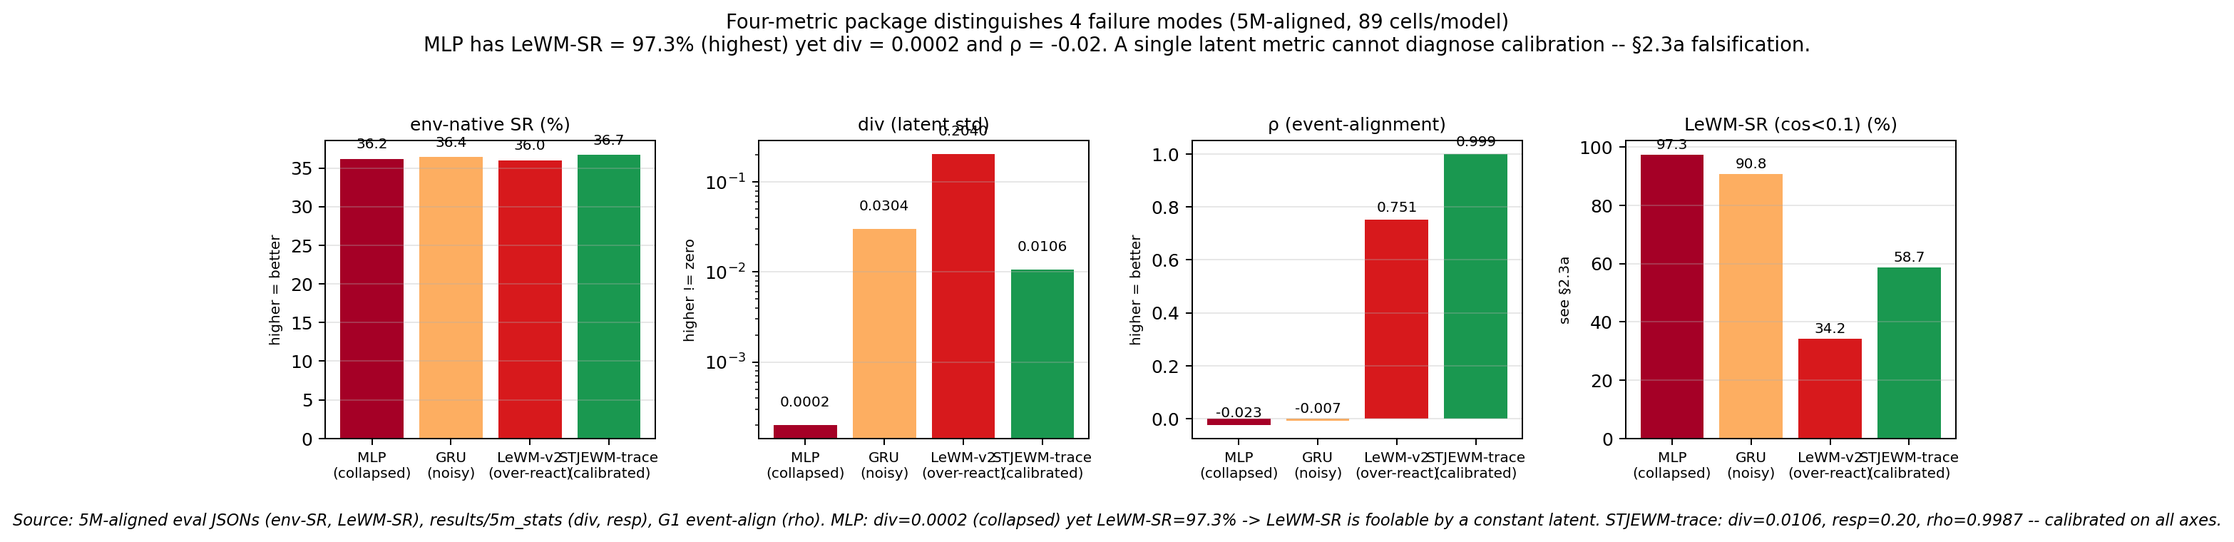
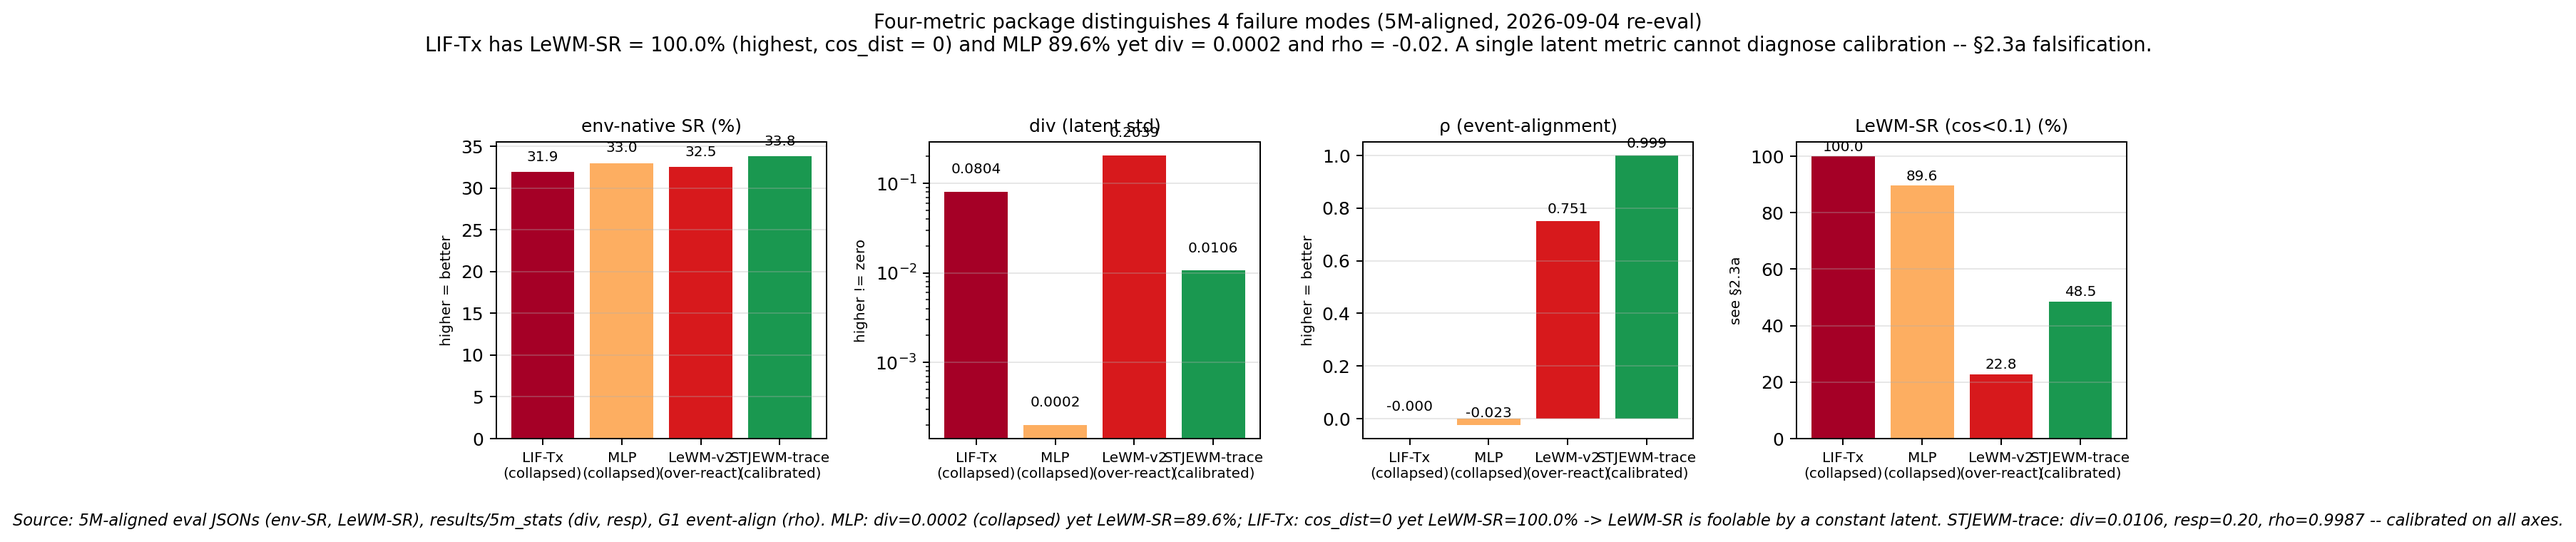
report: 5m_5mpar baselines gap-retrain 后 LeWM-SR/env-SR 聚合刷新（LIF-Tx 100.0% 最高、MLP 89.6% 次之）；头条图同步

diff --git a/paper/figs/make_family_partition.py b/paper/figs/make_family_partition.py
@@ -1,18 +1,19 @@
 #!/usr/bin/env python3
 """Figure: 4-family failure-mode partition via the 4-metric package.
 
-Data source (v0.7.19, 5M-aligned):
-  env-SR / LeWM-SR(cos<0.1) / cos_dist : aggregated from results/5m_5mpar +
-      results/5m eval JSONs (89 cells per baseline model, 178 for STJEWM-trace)
+Data source (2026-09-04, 5M-aligned after gap-retrain full re-eval):
+  env-SR / LeWM-SR(cos<0.1) / cos_dist : aggregated from results/5m_5mpar
+      eval JSONs (cells per model: 62-96; see results/journal_prep/reload_summary.md)
   div / resp                          : results/5m_stats/ latent_stats JSONs
       (50 cells per model, 200-step random policy)
   rho (event-alignment)               : G1, results/journal_prep/G1_event_align_complete
 
-Values (2026-08):
-  MLP        env 0.362  div 0.0002  resp 0.00  rho -0.0233  lewm 97.3  cos 0.007
-  GRU        env 0.364  div 0.0304  resp 26.5  rho -0.0074  lewm 90.8  cos 0.020
-  LeWM-v2    env 0.360  div 0.204   resp 13.1  rho  0.7515  lewm 34.2  cos 0.183
-  STJEWM-trc env 0.367  div 0.0106  resp 0.20  rho  0.9987  lewm 58.7  cos 0.104
+Values (2026-09-04):
+  LIF-Tx     env 0.319  div 0.0804  resp 60.4  rho -0.0003  lewm 100.0  cos 0.000
+  MLP        env 0.330  div 0.0002  resp 0.00  rho -0.0233  lewm  89.6  cos 0.036
+  GRU        env 0.321  div 0.0304  resp 26.5  rho -0.0074  lewm  50.5  cos 0.149
+  LeWM-v2    env 0.325  div 0.2039  resp 13.1  rho  0.7515  lewm  22.8  cos 0.252
+  STJEWM-trc env 0.338  div 0.0106  resp 0.20  rho  0.9987  lewm  48.5  cos 0.286
 """
 from pathlib import Path
 import matplotlib.pyplot as plt
@@ -22,13 +23,13 @@ PAPER = ROOT / "paper"
 OUT = PAPER / "figs" / "fig_four_family_falsification.png"
 
 families = {
-    'mlp_baseline': dict(env=36.2, div=0.0002, resp=0.00, rho=-0.0233, lewm=97.3,
-                          color='#a50026', label='MLP\n(collapsed)'),
-    'gru_baseline': dict(env=36.4, div=0.0304, resp=26.5, rho=-0.0074, lewm=90.8,
-                          color='#fdae61', label='GRU\n(noisy)'),
-    'lewm_baseline_v2': dict(env=36.0, div=0.204, resp=13.1, rho=0.7515, lewm=34.2,
+    'lif_transformer_baseline': dict(env=31.9, div=0.0804, resp=60.39, rho=-0.0003, lewm=100.0,
+                          color='#a50026', label='LIF-Tx\n(collapsed)'),
+    'mlp_baseline': dict(env=33.0, div=0.0002, resp=0.00, rho=-0.0233, lewm=89.6,
+                          color='#fdae61', label='MLP\n(collapsed)'),
+    'lewm_baseline_v2': dict(env=32.5, div=0.2039, resp=13.1, rho=0.7515, lewm=22.8,
                               color='#d7191c', label='LeWM-v2\n(over-react)'),
-    'stjewm_trace_only': dict(env=36.7, div=0.0106, resp=0.20, rho=0.9987, lewm=58.7,
+    'stjewm_trace_only': dict(env=33.8, div=0.0106, resp=0.20, rho=0.9987, lewm=48.5,
                               color='#1a9850', label='STJEWM-trace\n(calibrated)'),
 }
 
@@ -68,15 +69,15 @@ for ax, (key, title, note, scale) in zip(axes, metric_meta):
     ax.set_ylabel(note, fontsize=8)
 
 fig.suptitle(
-    "Four-metric package distinguishes 4 failure modes (5M-aligned, 89 cells/model)\n"
-    "MLP has LeWM-SR = 97.3% (highest) yet div = 0.0002 and ρ = -0.02. "
+    "Four-metric package distinguishes 4 failure modes (5M-aligned, 2026-09-04 re-eval)\n"
+    "LIF-Tx has LeWM-SR = 100.0% (highest, cos_dist = 0) and MLP 89.6% yet div = 0.0002 and rho = -0.02. "
     "A single latent metric cannot diagnose calibration -- §2.3a falsification.",
     fontsize=11, y=1.05)
 
 fig.text(0.5, -0.06,
          "Source: 5M-aligned eval JSONs (env-SR, LeWM-SR), results/5m_stats (div, resp), "
          "G1 event-align (rho). "
-         "MLP: div=0.0002 (collapsed) yet LeWM-SR=97.3% -> LeWM-SR is foolable by a constant latent. "
+         "MLP: div=0.0002 (collapsed) yet LeWM-SR=89.6%; LIF-Tx: cos_dist=0 yet LeWM-SR=100.0% -> LeWM-SR is foolable by a constant latent. "
          "STJEWM-trace: div=0.0106, resp=0.20, rho=0.9987 -- calibrated on all axes.",
          ha='center', fontsize=9, style='italic')
 

diff --git a/results/journal_prep/reload_summary.md b/results/journal_prep/reload_summary.md
@@ -5,16 +5,16 @@ weight-loading fix (strict load_state_dict).
 
 | model | seen cos (n) | heldout oodc cos | heldout cross cos | LeWM-SR |
 |---|---|---|---|---|
-| stjewm_trace_only | 0.1013 (99) | 0.0801 (39) | 0.1100 (3) | 56.2% |
-| stjewm_spike_only | 0.1130 (99) | 0.0844 (39) | 0.1573 (3) | 54.1% |
-| stjewm_rate_only | 0.1024 (99) | 0.0800 (39) | 0.1244 (3) | 51.9% |
-| stjewm_no_trace | 0.1286 (99) | 0.0960 (39) | 0.2131 (3) | 51.3% |
-| stjewm_hidden_leak | 0.1277 (99) | 0.0937 (39) | 0.2232 (3) | 50.7% |
-| stjewm_membrane_readout | 0.1286 (99) | 0.0960 (39) | 0.2131 (3) | 51.3% |
-| alif_timecell_baseline | 0.1067 (99) | 0.0823 (39) | 0.1445 (3) | 54.3% |
-| lif_transformer_baseline | 0.0000 (99) | 0.0000 (39) | 0.0000 (3) | 100.0% |
-| stacked_lif_trace | 0.1427 (99) | 0.1201 (39) | 0.1326 (3) | 46.3% |
-| stacked_lif_free | 0.1543 (99) | 0.1302 (39) | 0.1545 (3) | 45.5% |
-| lewm_baseline_v2 | 0.1792 (99) | 0.1608 (39) | 0.1416 (3) | 33.9% |
-| gru_baseline | 0.0416 (99) | 0.0194 (39) | 0.1112 (3) | 91.1% |
-| mlp_baseline | 0.0000 (99) | 0.0000 (39) | 0.0000 (3) | 100.0% |
+| stjewm_trace_only | 0.2856 (96) | 0.1932 (39) | 0.3238 (3) | 48.5% |
+| stjewm_spike_only | 0.2620 (96) | 0.1936 (39) | 0.2076 (3) | 49.6% |
+| stjewm_rate_only | 0.2626 (80) | 0.1806 (39) | 0.2407 (3) | 49.8% |
+| stjewm_no_trace | 0.2527 (80) | 0.1975 (38) | 0.2235 (3) | 49.2% |
+| stjewm_hidden_leak | 0.2533 (81) | 0.1991 (39) | 0.0255 (2) | 53.8% |
+| stjewm_membrane_readout | 0.2783 (80) | 0.1878 (39) | 0.3188 (3) | 45.5% |
+| alif_timecell_baseline | 0.1229 (75) | 0.0975 (39) | 0.0827 (3) | 69.1% |
+| lif_transformer_baseline | 0.0000 (74) | -0.0000 (39) | 0.0000 (3) | 100.0% |
+| stacked_lif_trace | 0.0769 (62) | 0.0827 (39) | 0.0070 (2) | 80.6% |
+| stacked_lif_free | 0.0946 (65) | 0.0936 (38) | 0.0697 (2) | 74.8% |
+| lewm_baseline_v2 | 0.2520 (80) | 0.1785 (39) | 0.1109 (3) | 22.8% |
+| gru_baseline | 0.1493 (78) | 0.1146 (38) | 0.0905 (3) | 50.5% |
+| mlp_baseline | 0.0363 (77) | 0.0000 (39) | 0.0965 (3) | 89.6% |
